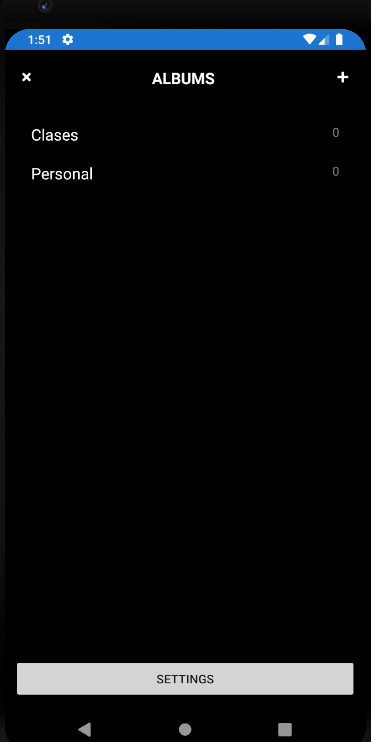
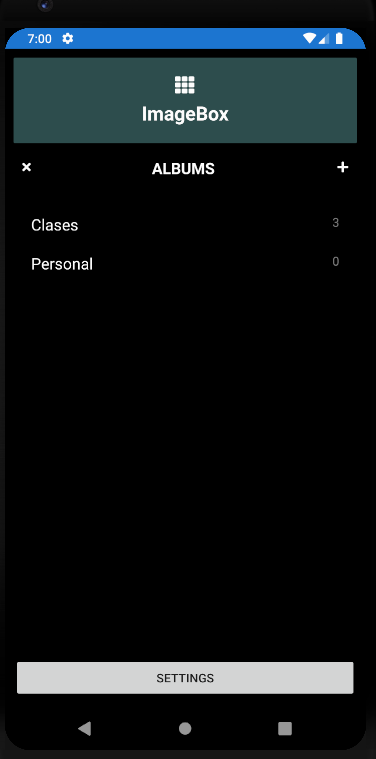
Uploading folder images management.

diff --git a/ImageBox/ImageBox/Pages/ViewFolderPage.xaml b/ImageBox/ImageBox/Pages/ViewFolderPage.xaml
@@ -4,12 +4,34 @@
              xmlns:d="http://xamarin.com/schemas/2014/forms/design"
              xmlns:mc="http://schemas.openxmlformats.org/markup-compatibility/2006"
              mc:Ignorable="d"
-             x:Class="ImageBox.Pages.ViewFolderPage">
+             xmlns:controls="clr-namespace:ImageBox.Views"     
+             x:Class="ImageBox.Pages.ViewFolderPage" BackgroundColor="Black">
     <ContentPage.Content>
-        <StackLayout>
-            <Label Text="Welcome to Xamarin.Forms!"
-                VerticalOptions="CenterAndExpand" 
-                HorizontalOptions="CenterAndExpand" />
+        <StackLayout BackgroundColor="Black">
+            <StackLayout Padding="10" Margin="10" HorizontalOptions="FillAndExpand">
+                <controls:LogoView />
+                <StackLayout Orientation="Horizontal">
+                    <StackLayout HorizontalOptions="Start" VerticalOptions="Center">
+                        <Label x:Name="txtTitleCloseIcon" Text="&#xf00d;" TextColor="White" HorizontalOptions="Center" FontFamily="{StaticResource FontAwesomeSolid}" VerticalOptions="Center">
+                            <Label.GestureRecognizers>
+                                <TapGestureRecognizer Command="{Binding CloseTrash}" />
+                            </Label.GestureRecognizers>
+                        </Label>
+                    </StackLayout>
+                    <StackLayout HorizontalOptions="CenterAndExpand" VerticalOptions="Center">
+                        <Label x:Name="foldertitle" HorizontalOptions="Center" FontSize="Medium" FontAttributes="Bold" VerticalOptions="Center" TextColor="White" />
+                    </StackLayout>
+                </StackLayout>
+            </StackLayout>
+            <Grid HorizontalOptions="FillAndExpand" VerticalOptions="FillAndExpand" BindingContext="{Binding ViewFolderPage}">
+                <ScrollView HorizontalOptions="FillAndExpand" VerticalOptions="FillAndExpand">
+                    <FlexLayout x:Name="flexLayout"
+                        Wrap="Wrap" HorizontalOptions="FillAndExpand" VerticalOptions="FillAndExpand" BackgroundColor="Black" />
+                </ScrollView>
+                <ActivityIndicator x:Name="activityIndicator"
+                           IsRunning="True"
+                           VerticalOptions="Center" />
+            </Grid>
         </StackLayout>
     </ContentPage.Content>
 </ContentPage>

diff --git a/ImageBox/ImageBox/Pages/ViewFolderList.xaml b/ImageBox/ImageBox/Pages/ViewFolderList.xaml
@@ -4,10 +4,12 @@
              xmlns:d="http://xamarin.com/schemas/2014/forms/design"
              xmlns:mc="http://schemas.openxmlformats.org/markup-compatibility/2006"
              mc:Ignorable="d"
+             xmlns:controls="clr-namespace:ImageBox.Views"     
              x:Class="ImageBox.Pages.ViewFolderList" BackgroundColor="Black">
     <ContentPage.Content>
         <StackLayout Spacing="10" Padding="10">
             <StackLayout HorizontalOptions="FillAndExpand">
+                <controls:LogoView />
                 <StackLayout Orientation="Horizontal" Padding="10">
                     <StackLayout HorizontalOptions="Start" VerticalOptions="Center">
                         <Label  x:Name="txtTitleCloseIcon" Text="&#xf00d;" TextColor="White" HorizontalOptions="Center" FontFamily="{StaticResource FontAwesomeSolid}" VerticalOptions="Center">
@@ -34,7 +36,7 @@
                         <DataTemplate>
                             <ViewCell>
                                 <ViewCell.View>
-                                    <StackLayout Orientation="Horizontal">
+                                    <StackLayout Orientation="Horizontal" AutomationId="{Binding Name}">
                                         <StackLayout Orientation="Horizontal" HorizontalOptions="StartAndExpand">
                                             <Label Text="{Binding Name}" TextColor="White" FontSize="Medium"></Label>
                                         </StackLayout>
@@ -42,7 +44,7 @@
                                             <Label Text="{Binding Quantity}" TextColor="Gray"></Label>
                                         </StackLayout>
                                         <StackLayout.GestureRecognizers>
-                                            <TapGestureRecognizer Command="{Binding ViewFolder}" />
+                                            <TapGestureRecognizer Tapped="OnTapGestureRecognizerFolderTapped" />
                                         </StackLayout.GestureRecognizers>
                                     </StackLayout>
                                 </ViewCell.View>

diff --git a/ImageBox/ImageBox/Interactions/CacheDataImages.cs b/ImageBox/ImageBox/Interactions/CacheDataImages.cs
@@ -3,20 +3,41 @@
     using System;
     using System.Collections.Generic;
     using System.IO;
+    using System.Linq;
+    using System.Net.Http;
     using System.Text;
+    using System.Threading.Tasks;
     using Xamarin.Essentials;
+    using Xamarin.Forms;
 
     public static class CacheDataImages
     {
+        public static async Task SaveUrlImage(string imageName)
+        {
+            await SaveUrlImage("temp", imageName);
+        }
 
-        public static void SaveImage(string imageName)
+        public static async Task SaveUrlImage(string folderName, string imageName)
         {
             var cacheDir = FileSystem.CacheDirectory;
-            string newdirectory = Path.Combine(cacheDir, "temp");
+
+            string filename = Path.GetFileName(imageName);
+
+            string newdirectory = Path.Combine(cacheDir, folderName);
 
             if (!Directory.Exists(newdirectory))
             {
                 Directory.CreateDirectory(newdirectory);
+            }
+
+            filename = Path.Combine(newdirectory, filename);
+            using (var client = new HttpClient())
+            {
+                using (var response = await client.GetAsync(imageName))
+                {
+                    byte[] imageBytes = await response.Content.ReadAsByteArrayAsync().ConfigureAwait(false);
+                    File.WriteAllBytes(filename, imageBytes);
+                }
             }
         }
 
@@ -34,9 +55,27 @@
             }
         }
 
-        public static List<string> GetImages(string folderName)
+        public static void MoveFile(string folderName, string imageName)
+        {            
+            string filename = Path.GetFileName(imageName);
+            string newdirectory = Path.Combine(FileSystem.CacheDirectory, folderName);
+            if (!Directory.Exists(newdirectory))
+            {
+                Directory.CreateDirectory(newdirectory);
+            }
+
+            filename = Path.Combine(newdirectory, filename);            
+            File.Move(imageName, filename);            
+        }
+
+        public static ImageList GetImages(string folderName)
         {
-            return new List<string>();
+            string newdirectory = Path.Combine(FileSystem.CacheDirectory, folderName);
+            ImageList imageList = new ImageList();
+            imageList.Photos = Directory.GetFiles(newdirectory).ToList<string>();
+
+            return imageList;
+
         }
 
         public static List<DestinationFolder> GetFolders()
@@ -49,7 +88,7 @@
 
             foreach (string _directory in _directories)
             {
-                if (!Path.GetFileNameWithoutExtension(_directory).ToLower().Equals("temp"))
+                if (!",temp,trash,".Contains( Path.GetFileNameWithoutExtension(_directory).ToLower()))
                 {
                     if (_directory != cacheDir)
                     {

diff --git a/ImageBox/ImageBox/Pages/ViewFolderPage.xaml.cs b/ImageBox/ImageBox/Pages/ViewFolderPage.xaml.cs
@@ -3,7 +3,7 @@ using System.Collections.Generic;
 using System.Linq;
 using System.Text;
 using System.Threading.Tasks;
-
+using System.Windows.Input;
 using Xamarin.Forms;
 using Xamarin.Forms.Xaml;
 
@@ -13,8 +13,81 @@ namespace ImageBox.Pages
     public partial class ViewFolderPage : ContentPage
     {
         public ViewFolderPage()
+        {            
+            InitializeComponent();
+
+            BindingContext = this;
+
+            LoadBitmapCollection();
+        }
+
+        public ViewFolderPage(string folderName)
         {
             InitializeComponent();
+
+            BindingContext = this;
+
+            FolderName = folderName;
+
+            LoadBitmapCollection();
+        }
+
+        public string FolderName { get; set; }
+
+        public ICommand CloseTrash => new Command(OnDismissButtonClicked);
+
+        private async void OnDismissButtonClicked()
+        {
+            await Navigation.PopModalAsync();
+        }
+
+
+        void LoadBitmapCollection()
+        {
+            try
+            {
+                if (!string.IsNullOrEmpty(FolderName))
+                {
+                    foldertitle.Text = FolderName;
+
+                    flexLayout.Children.Clear();
+                    ImageList imageList = CacheDataImages.GetImages(FolderName);
+
+                    foreach (string filepath in imageList.Photos)
+                    {
+                        AddImage(filepath);
+                    }
+                }
+            }
+            catch (Exception ex)
+            {
+                flexLayout.Children.Add(new Label
+                {
+                    Text = string.Format("Cannot access list of bitmap files: {0}", ex.Message)
+                });
+            }
+            finally
+            {
+                activityIndicator.IsRunning = false;
+                activityIndicator.IsVisible = false;
+            }
+        }
+
+        private void AddImage(string filepath)
+        {
+            Image image = new Image
+            {
+                Source = ImageSource.FromFile(filepath),
+                HorizontalOptions = LayoutOptions.FillAndExpand,
+                VerticalOptions = LayoutOptions.FillAndExpand,
+                HeightRequest = 120,
+                WidthRequest = 120,
+                Margin = 5,
+                AutomationId = filepath
+
+            };
+
+            flexLayout.Children.Add(image);
         }
     }
 }

diff --git a/ImageBox/ImageBox/MainPage.xaml.cs b/ImageBox/ImageBox/MainPage.xaml.cs
@@ -33,16 +33,25 @@
         }
 
         ObservableCollection<UnsortedImage> UnsortedImages { get { return App._unsortedImages; } }
-        ObservableCollection<UnsortedImage> trashImages { get { return App._trashImages; } }
-
+        
         private int pointer = 0;
 
         async void LoadBitmapCollection()
         {
             try
             {
-                ImageList imageList = await ImageFolderScan.GetImages("https://raw.githubusercontent.com/xamarin/docs-archive/master/Images/stock/small/stock.json");
 
+                ImageList imageList = CacheDataImages.GetImages("temp");
+
+                if(imageList.Photos.Count <= 0) {
+                    imageList = await ImageFolderScan.GetImages("https://raw.githubusercontent.com/xamarin/docs-archive/master/Images/stock/small/stock.json");
+                    foreach (string filepath in imageList.Photos)
+                    {
+                        await CacheDataImages.SaveUrlImage(filepath);
+                    }
+                }
+
+                imageList = CacheDataImages.GetImages("temp");
                 // Create an Image object for each bitmap
                 foreach (string filepath in imageList.Photos)
                 {
@@ -105,8 +114,8 @@
                         pointer = (UnsortedImages.Count - 1);
                     }
                     break;
-                case SwipeDirection.Up:
-                    trashImages.Add(new UnsortedImage(UnsortedImages[pointer].ImagePath));
+                case SwipeDirection.Up:                    
+                    CacheDataImages.MoveFile("trash", UnsortedImages[pointer].ImagePath);
                     UnsortedImages.RemoveAt(pointer);                    
                     if (pointer >= (UnsortedImages.Count - 1))
                     {
@@ -134,7 +143,7 @@
 
         void MoveImage(string folderName)
         {
-            CacheDataImages.SaveImage(folderName);
+            CacheDataImages.MoveFile(folderName, UnsortedImages[pointer].ImagePath);
             UnsortedImages.RemoveAt(pointer);
             if (pointer >= (UnsortedImages.Count - 1))
             {

diff --git a/ImageBox/ImageBox/Pages/ViewFolderList.xaml.cs b/ImageBox/ImageBox/Pages/ViewFolderList.xaml.cs
@@ -32,6 +32,7 @@
             List<DestinationFolder> folders = CacheDataImages.GetFolders();
             foreach (DestinationFolder df in folders)
             {
+                df.Images = CacheDataImages.GetImages(df.Name);
                 _destinationFolder.Add(df);
             }
         }
@@ -54,7 +55,12 @@
 
         private async void OnAddButtonClicked()
         {
-            await Navigation.PopModalAsync();
+            string result = await App.Current.MainPage.DisplayPromptAsync("New Folder", "Add your folder name");
+            if (result != null)
+            {
+                CacheDataImages.CreateFolder(result);
+                loadDirectory();
+            }            
         }
 
 
@@ -63,6 +69,15 @@
         private async void OnViewButtonClicked()
         {
             await DisplayAlert("Mensaje", "tab", "Ok");
+        }
+
+        async void OnTapGestureRecognizerFolderTapped(object sender, EventArgs args)
+        {
+            string folderName = ((StackLayout)sender).AutomationId;
+
+            var viewFolderPage = new ViewFolderPage(folderName);
+            
+            await Navigation.PushModalAsync(viewFolderPage, true);
         }
     }
 }

diff --git a/ImageBox/ImageBox/Pages/TrashPage.xaml.cs b/ImageBox/ImageBox/Pages/TrashPage.xaml.cs
@@ -67,7 +67,15 @@
 
             try
             {
+                trashImages.Clear();
                 flexLayout.Children.Clear();
+                ImageList imageList = CacheDataImages.GetImages("trash");
+
+                foreach (string filepath in imageList.Photos)
+                {
+                    trashImages.Add(new UnsortedImage(filepath));
+                }
+
                 foreach (UnsortedImage _image in trashImages)
                 {
                     AddImage(_image.ImagePath);
@@ -88,10 +96,10 @@
         }
 
         private void AddImage(string filepath)
-        {
+        {            
             Image image = new Image
             {
-                Source = ImageSource.FromUri(new Uri(filepath)),
+                Source = ImageSource.FromFile(filepath),
                 HorizontalOptions = LayoutOptions.FillAndExpand,
                 VerticalOptions = LayoutOptions.FillAndExpand,
                 HeightRequest = 120,

diff --git a/ImageBox/ImageBox/Models/DestinationFolder.cs b/ImageBox/ImageBox/Models/DestinationFolder.cs
@@ -15,13 +15,13 @@ namespace ImageBox
 
         public string Source { get; set; }
 
-        public int Quantity { get { return Images.Count; } }  
+        public int Quantity { get { return Images.Photos.Count; } }  
         
-        public List<UnsortedImage> Images { get; set; }
+        public ImageList Images { get; set; }
        
         public DestinationFolder()
         {
-            Images = new List<UnsortedImage>();
+            Images = new ImageList();
         }
     }
 }

diff --git a/ImageBox/ImageBox/Views/FoldersView.xaml.cs b/ImageBox/ImageBox/Views/FoldersView.xaml.cs
@@ -123,6 +123,7 @@
             if (result != null)
             {
                 CacheDataImages.CreateFolder(result);
+                loadDirectory();
             }
         }
     }
